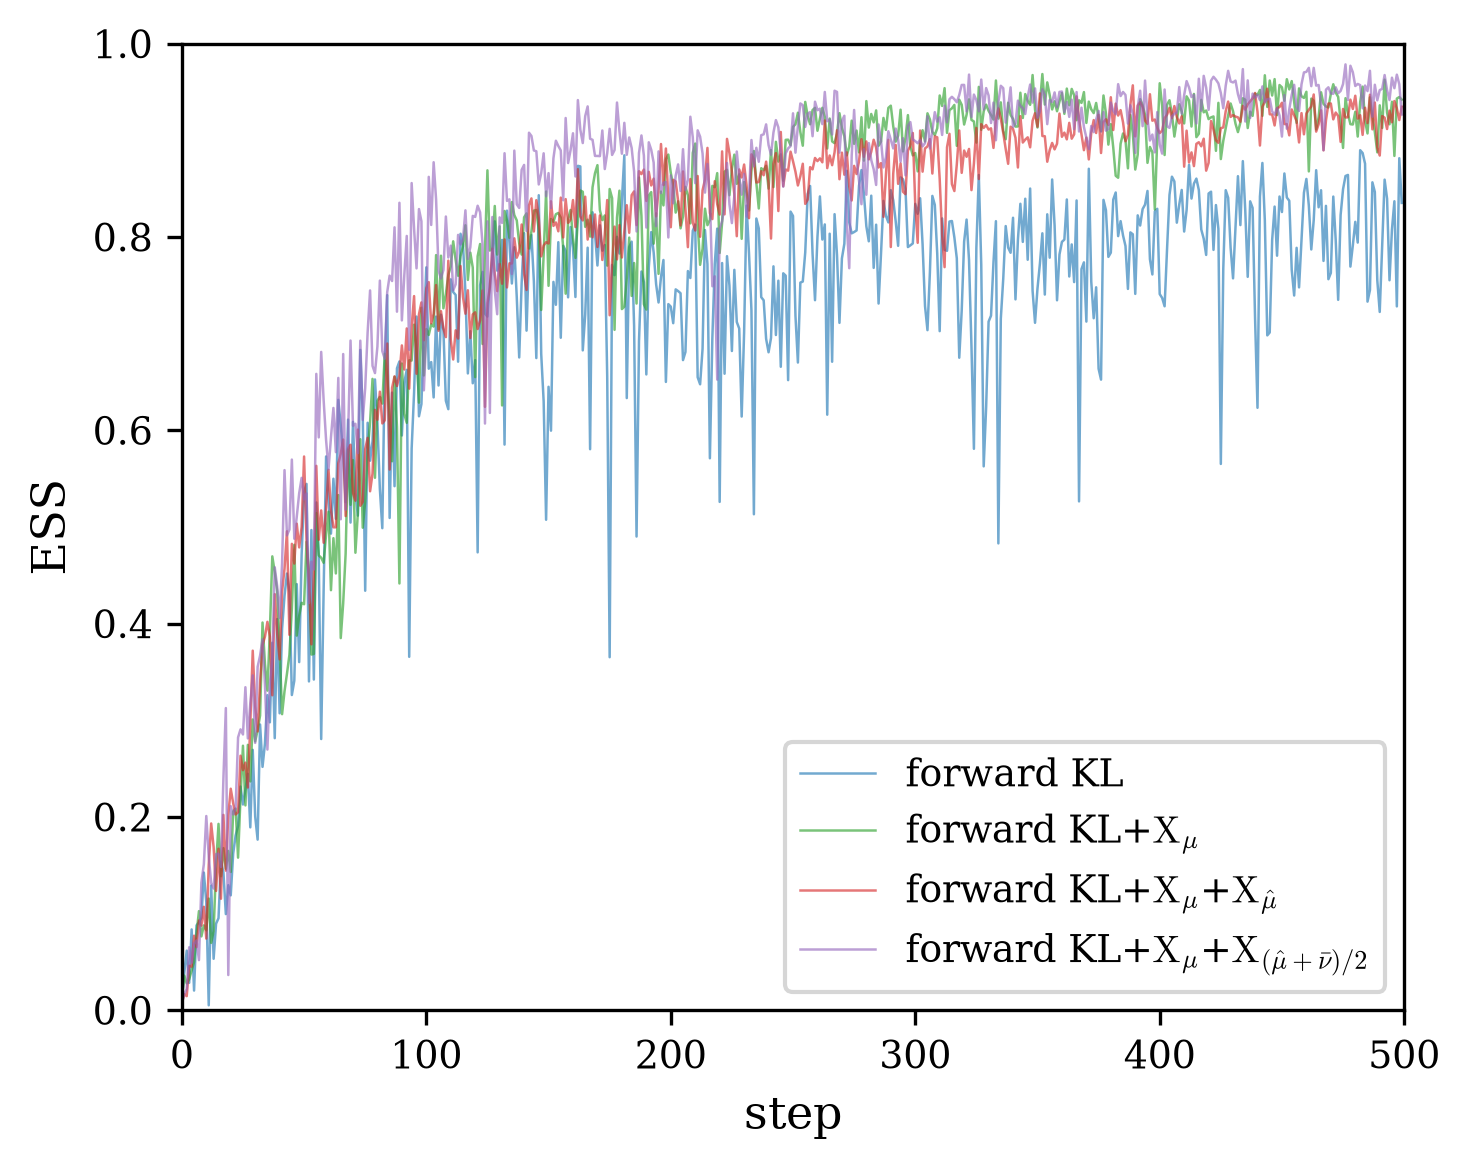
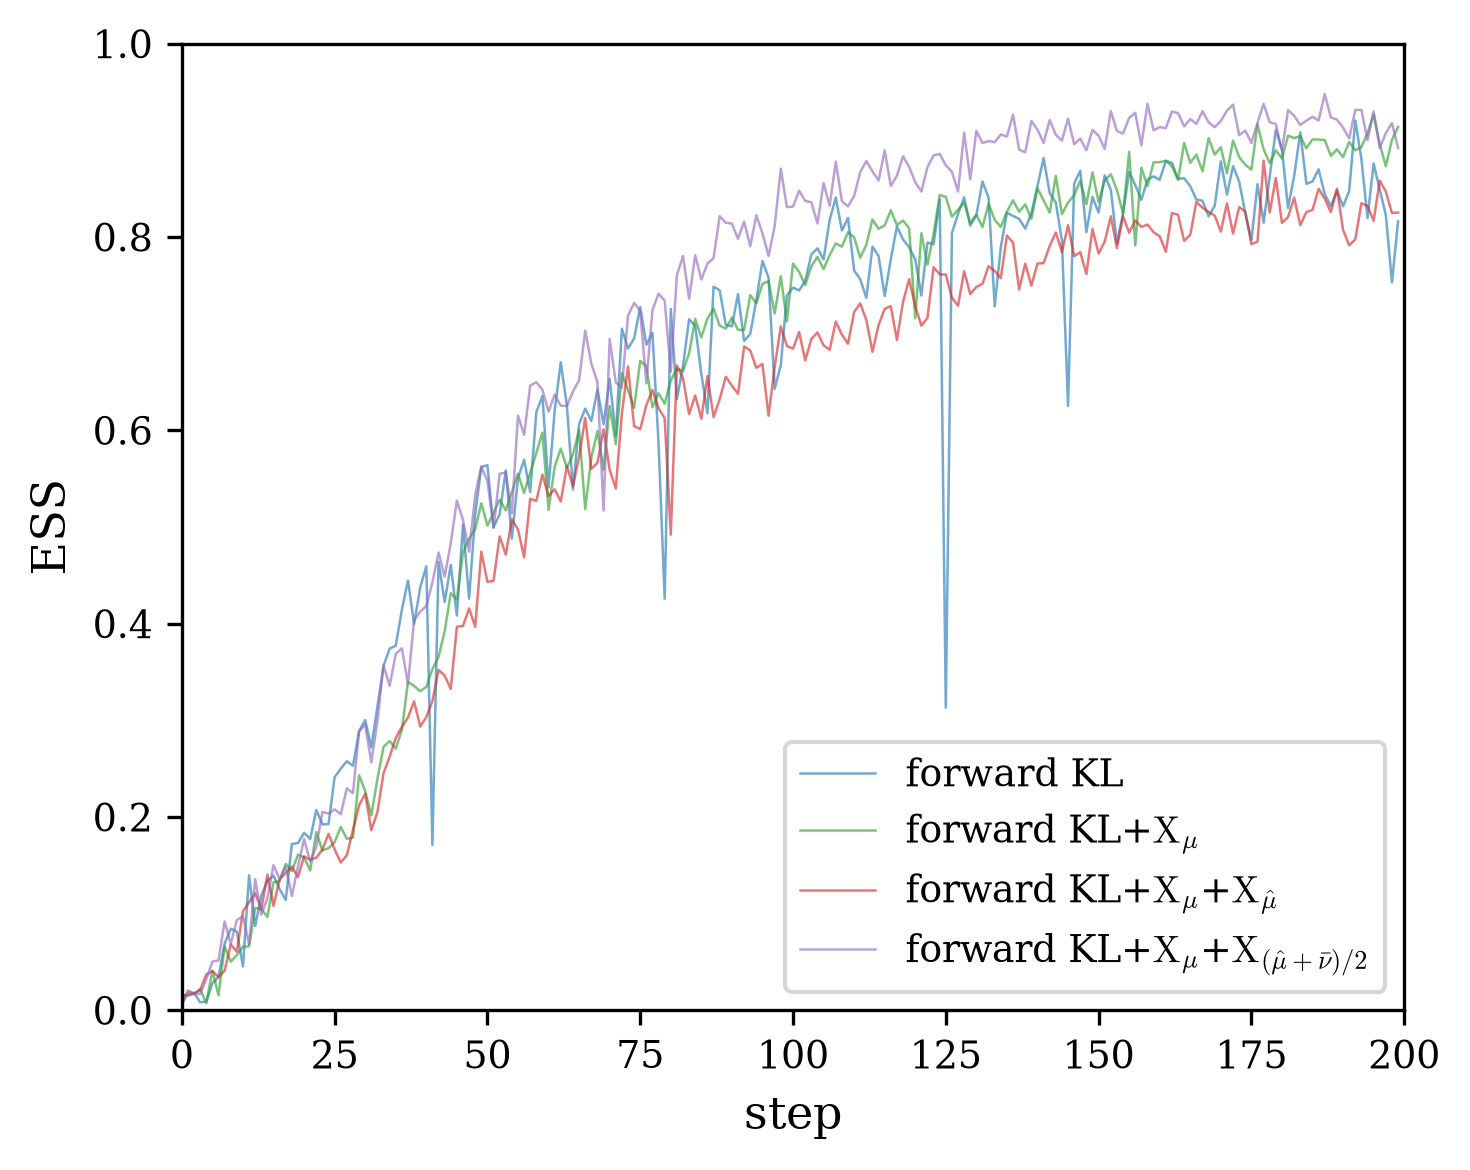
Update 2D benchmark results

diff --git a/Codes/2D_Benchmark/Two-Moon/train.py b/Codes/2D_Benchmark/Two-Moon/train.py
@@ -67,15 +67,15 @@ HIDDEN_FEATURES = (128, 128)
 
 # training parameters
 VALID_SZIE: int = 50000   # the fixed source set (training pool + final ESS / coverage)
-BATCH_SZIE: int = 200     # source samples per training step
+BATCH_SZIE: int = 500     # source samples per training step
 POOL_SIZE: int = 0        # 0: quench the complete validation population
-TRAIN_STEPS: int = 500      # Adam optimization steps
-LR: float = 2e-3       # Adam learning rate
+TRAIN_STEPS: int = 200      # Adam optimization steps
+LR: float = 1e-3       # Adam learning rate
 
 # data pipeline (single-hop AIS + MALA rejuvenation)
 LADDER: int = 1        # AIS levels per manufactured target batch
-MC_DT: float = 2e-3  # Langevin step size
-MC_STEPS: int = 40     # Langevin steps per level / per hat_mu freshening
+MC_DT: float = 1e-3  # Langevin step size
+MC_STEPS: int = 100     # Langevin steps per level / per hat_mu freshening
 
 # quench and temper (the wide-coverage measure hat_mu)
 REFER_SZIE: int = 1000    # coverage-reference population size

diff --git a/Codes/2D_Benchmark/results.md b/Codes/2D_Benchmark/results.md
@@ -14,9 +14,9 @@ the sample panels.
 
 ## Two-Moon
 
-All methods cover both moons with measured coverage 1.000. KL + X_μ gives the
-highest final ESS, while the equal-weight mixture is within 0.001 and remains
-cleaner than the X_μ̂-only pushforward.
+All methods cover both moons with measured coverage 1.000. The equal-weight
+mixture gives the highest final ESS at 0.924, ahead of KL + X_μ at 0.911,
+and remains cleaner than the X_μ̂-only pushforward.
 
 ![Two-Moon samples](Two-Moon/results/samples.png)
 
@@ -56,7 +56,7 @@ leakage seen in the X_μ̂-only pushforward and increases ESS from 0.826 to
 
 | Target | forward KL | KL + X_μ | KL + X_μ + X_μ̂ | KL + X_μ + X_(μ̂+ν̄)/2 |
 |:---|---:|---:|---:|---:|
-| Two-Moon | 0.845 (1.000) | **0.934** (1.000) | 0.927 (1.000) | 0.933 (1.000) |
+| Two-Moon | 0.836 (1.000) | 0.911 (1.000) | 0.835 (1.000) | **0.924** (1.000) |
 | Three-Well | 0.988 (0.760) | 0.990 (0.760) | 0.961 (0.978) | **0.989** (0.977) |
 | Himmelblau | 0.932 (0.516) | 0.981 (0.516) | 0.956 (1.000) | **0.974** (1.000) |
 | Sparse | 0.912 (0.534) | 0.927 (0.534) | 0.826 (1.000) | **0.956** (1.000) |
@@ -68,12 +68,15 @@ setting among methods whose sample panel covers every target mode. All methods
 cover Two-Moon; for the other targets, a larger support-local ESS does not
 override visibly missing modes.*
 
-On Two-Moon, Three-Well, and Himmelblau, the two quench-and-temper objectives
-remain in the same high-ESS range. Their sample quality differs more clearly:
-the equal-weight $\mathrm{X}_{(\hat\mu+\bar\nu)/2}$ objective produces cleaner
-pushforwards with less over-coverage of individual modes than the
-$\mathrm{X}_{\hat\mu}$-only objective. Sparse strengthens rather than weakens
-that comparison: the cleaner mixture also has substantially higher ESS.
+The sample panels separate the two roles of the wide-coverage objective.
+Although $\mathrm{X}_{\hat\mu}$ enables the flow to discover modes unseen by
+the target-only objectives, the equal-weight
+$\mathrm{X}_{(\hat\mu+\bar\nu)/2}$ objective produces substantially cleaner
+pushforwards: the $\bar\nu$ component curbs spurious coverage of intermodal and
+off-target regions without sacrificing the discovered modes. On Two-Moon,
+Three-Well, and Himmelblau, the two quench-and-temper objectives remain in the
+same high-ESS range; Sparse strengthens that comparison because the cleaner
+mixture also has substantially higher ESS.
 
 ## Verification summary
 
@@ -86,11 +89,6 @@ that comparison: the cleaner mixture also has substantially higher ESS.
   visually inspected; no panel is blank or malformed. The figures confirm
   complete mode coverage for all KLXX runs, including the Three-Well runs
   whose approximate scalar coverage is slightly below one.
-- The regenerated figures were compared with the backup under
-  `/data/games/X-regularization_071826`; their qualitative mode-coverage
-  patterns are unchanged. Fourteen of 16 coverage values match the backup
-  exactly; the two Three-Well KLXX estimates changed from 0.9750 and 0.9855 to
-  0.9783 and 0.9768.
 - The figures and paired metrics separate calibration from discovery: a high
   ESS on reached support does not certify that every mode was found.
 - Per-run logs and temporary data live below each target's `artifacts/`
